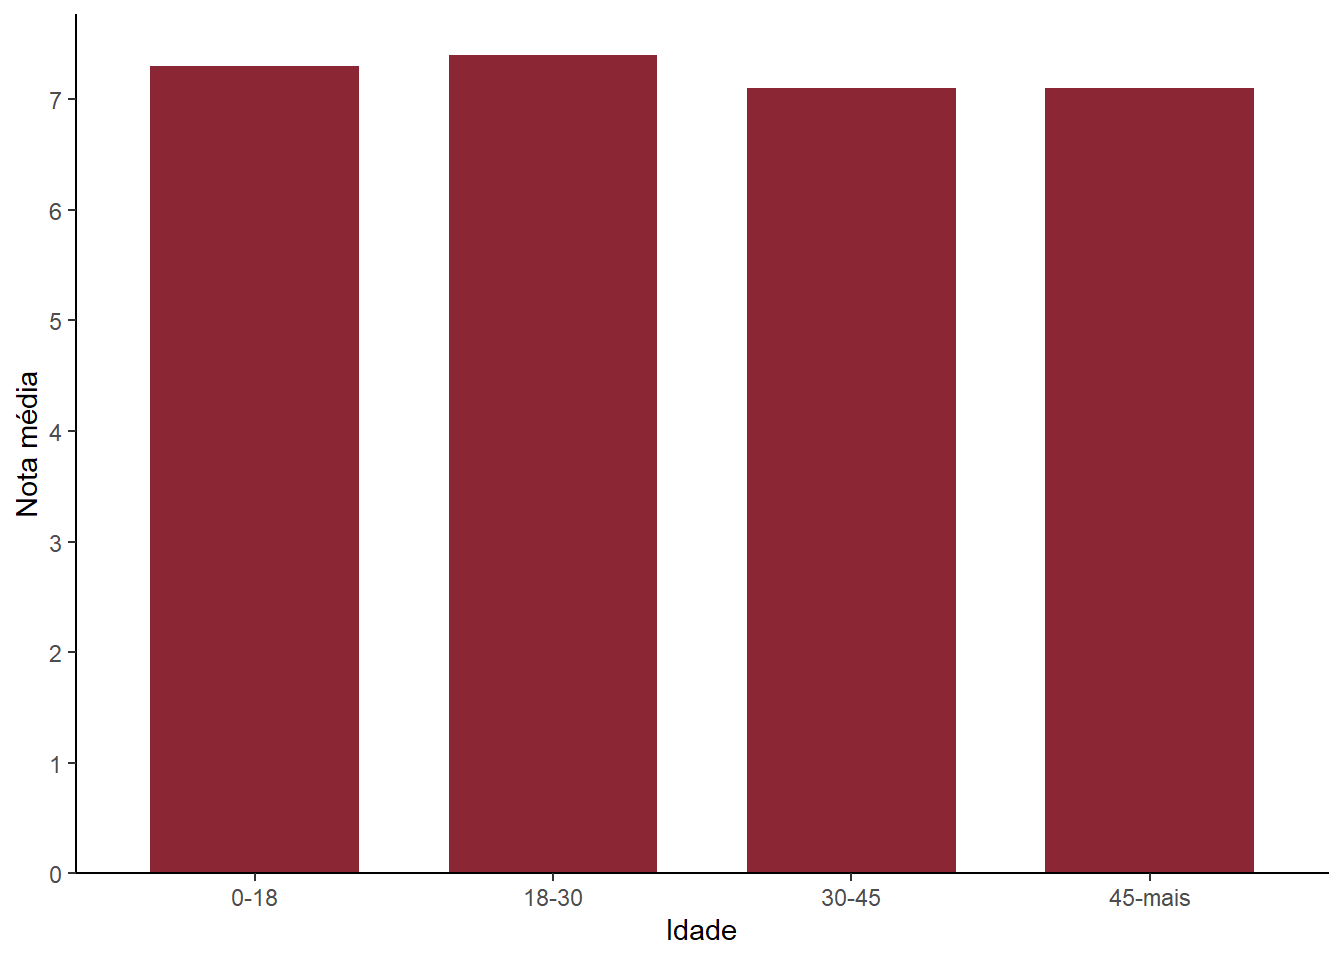
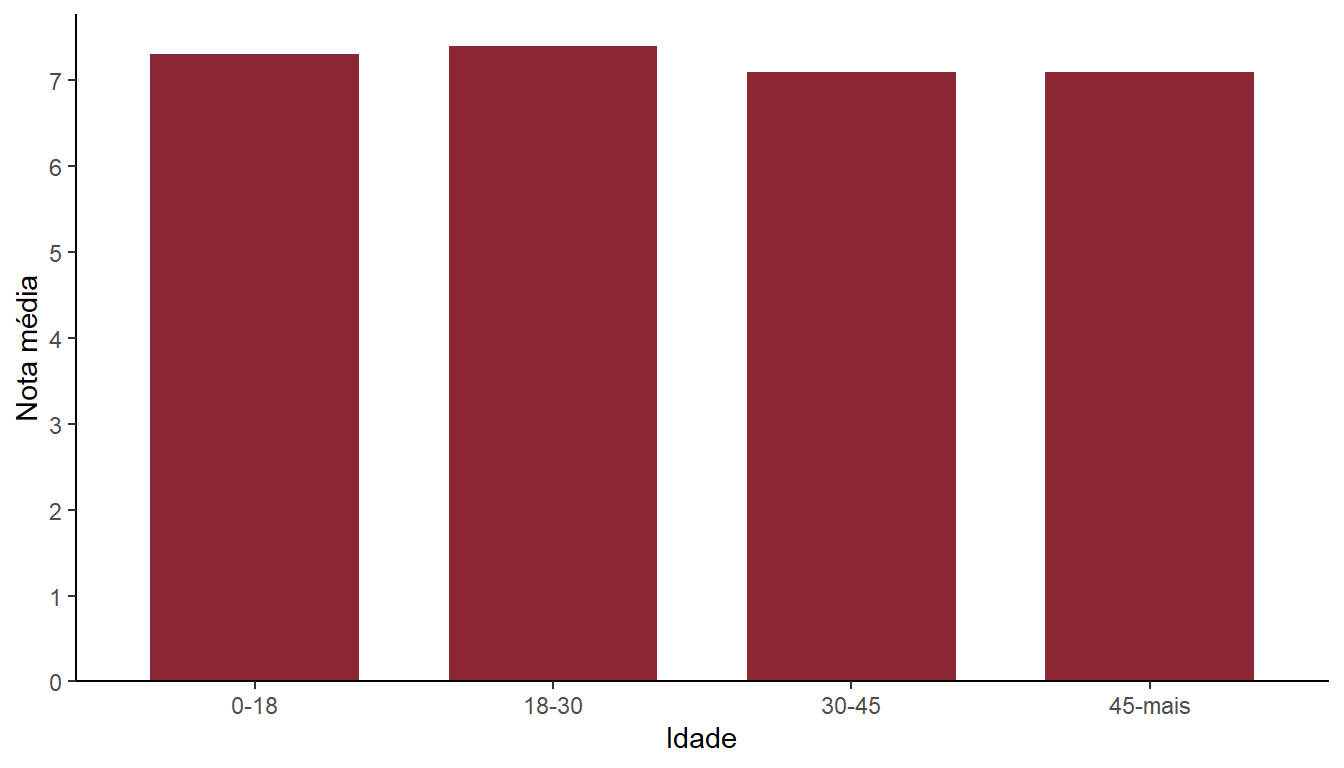
relatorio completo

diff --git a/docs/index.html b/docs/index.html
@@ -283,8 +283,8 @@ pre > code.sourceCode > span > a:first-child::before { text-decoration: underlin
 <span id="cb4-14"><a href="#cb4-14" aria-hidden="true" tabindex="-1"></a>  DT<span class="sc">::</span><span class="fu">datatable</span>()</span></code><button title="Copiar para a área de transferência" class="code-copy-button"><i class="bi"></i></button></pre></div>
 <div class="cell-output-display">
 
-<div class="datatables html-widget html-fill-item-overflow-hidden html-fill-item" id="htmlwidget-0d52b20e0e83fbe46014" style="width:100%;height:auto;"></div>
-<script type="application/json" data-for="htmlwidget-0d52b20e0e83fbe46014">{"x":{"filter":"none","vertical":false,"data":[["1","2","3","4","5","6","7","8","9","10","11","12","13","14","15","16","17","18","19","20","21","22","23","24","25","26","27","28","29","30","31","32","33","34","35","36","37","38","39","40","41","42","43","44","45","46","47","48","49","50","51","52","53","54","55","56","57","58","59","60","61","62","63","64","65","66","67","68","69","70","71","72","73","74","75","76","77","78","79"],["$","ITL","ROL","SEK","FRF","NOK","GBP","DEM","PTE","FIM","CAD","INR","CHF","ESP","JPY","DKK","NLG","PLN","RUR","AUD","KRW","BEF","XAU","HKD","NZD","CNY","EUR","PYG","ISK","IEP","TRL","HRK","SIT","PHP","HUF","DOP","JMD","CZK","SGD","BRL","BDT","ATS","BND","EGP","THB","GRD","ZAR","NPR","IDR","PKR","MXN","BGL","EEK","YUM","MYR","IRR","CLP","SKK","LTL","TWD","MTL","LVL","COP","ARS","UAH","RON","ALL","NGN","ILS","VEB","VND","TTD","JOD","LKR","GEL","MNT","AZM","AMD","AED"]],"container":"<table class=\"display\">\n  <thead>\n    <tr>\n      <th> <\/th>\n      <th>Moeda<\/th>\n    <\/tr>\n  <\/thead>\n<\/table>","options":{"columnDefs":[{"orderable":false,"targets":0}],"order":[],"autoWidth":false,"orderClasses":false}},"evals":[],"jsHooks":[]}</script>
+<div class="datatables html-widget html-fill-item-overflow-hidden html-fill-item" id="htmlwidget-a7446fdab626ff99d87d" style="width:100%;height:auto;"></div>
+<script type="application/json" data-for="htmlwidget-a7446fdab626ff99d87d">{"x":{"filter":"none","vertical":false,"data":[["1","2","3","4","5","6","7","8","9","10","11","12","13","14","15","16","17","18","19","20","21","22","23","24","25","26","27","28","29","30","31","32","33","34","35","36","37","38","39","40","41","42","43","44","45","46","47","48","49","50","51","52","53","54","55","56","57","58","59","60","61","62","63","64","65","66","67","68","69","70","71","72","73","74","75","76","77","78","79"],["$","ITL","ROL","SEK","FRF","NOK","GBP","DEM","PTE","FIM","CAD","INR","CHF","ESP","JPY","DKK","NLG","PLN","RUR","AUD","KRW","BEF","XAU","HKD","NZD","CNY","EUR","PYG","ISK","IEP","TRL","HRK","SIT","PHP","HUF","DOP","JMD","CZK","SGD","BRL","BDT","ATS","BND","EGP","THB","GRD","ZAR","NPR","IDR","PKR","MXN","BGL","EEK","YUM","MYR","IRR","CLP","SKK","LTL","TWD","MTL","LVL","COP","ARS","UAH","RON","ALL","NGN","ILS","VEB","VND","TTD","JOD","LKR","GEL","MNT","AZM","AMD","AED"]],"container":"<table class=\"display\">\n  <thead>\n    <tr>\n      <th> <\/th>\n      <th>Moeda<\/th>\n    <\/tr>\n  <\/thead>\n<\/table>","options":{"columnDefs":[{"orderable":false,"targets":0}],"order":[],"autoWidth":false,"orderClasses":false}},"evals":[],"jsHooks":[]}</script>
 </div>
 </div>
 </section>
@@ -571,7 +571,7 @@ pre > code.sourceCode > span > a:first-child::before { text-decoration: underlin
 <li>Faça um gráfico representando a distribuição da nota atribuída a esse filme por idade (base `imdb_avaliacoes`).</li>
 </ol>
 <p>A seguir é apresentado o gráfico com a média das nota atribuídas por cada categorias etária ao filme Jogos Vorazes.</p>
-<div class="cell">
+<div class="cell" data-layout-align="center">
 <div class="sourceCode cell-code" id="cb9"><pre class="sourceCode r code-with-copy"><code class="sourceCode r"><span id="cb9-1"><a href="#cb9-1" aria-hidden="true" tabindex="-1"></a>id <span class="ot">&lt;-</span> imdb <span class="sc">|&gt;</span> <span class="fu">filter</span>(titulo <span class="sc">==</span> <span class="st">"Hunger Games"</span>) <span class="sc">|&gt;</span> <span class="fu">pull</span>(id_filme)</span>
 <span id="cb9-2"><a href="#cb9-2" aria-hidden="true" tabindex="-1"></a></span>
 <span id="cb9-3"><a href="#cb9-3" aria-hidden="true" tabindex="-1"></a>imdb_avaliacoes <span class="sc">|&gt;</span> </span>
@@ -589,7 +589,11 @@ pre > code.sourceCode > span > a:first-child::before { text-decoration: underlin
 <span id="cb9-15"><a href="#cb9-15" aria-hidden="true" tabindex="-1"></a>       <span class="at">y =</span> <span class="st">"Nota média"</span>) <span class="sc">+</span></span>
 <span id="cb9-16"><a href="#cb9-16" aria-hidden="true" tabindex="-1"></a>  <span class="fu">theme_classic</span>()</span></code><button title="Copiar para a área de transferência" class="code-copy-button"><i class="bi"></i></button></pre></div>
 <div class="cell-output-display">
-<p><img src="index_files/figure-html/unnamed-chunk-14-1.png" class="img-fluid" width="672"></p>
+<div class="quarto-figure quarto-figure-center">
+<figure class="figure">
+<p><img src="index_files/figure-html/unnamed-chunk-14-1.png" class="img-fluid figure-img" width="672"></p>
+</figure>
+</div>
 </div>
 </div>
 <!-- -->
@@ -1280,25 +1284,29 @@ window.document.addEventListener("DOMContentLoaded", function (event) {
 <span id="cb10-421"><a href="#cb10-421" aria-hidden="true" tabindex="-1"></a>A seguir é apresentado o gráfico com a média das nota atribuídas por cada categorias etária ao filme Jogos Vorazes.</span>
 <span id="cb10-422"><a href="#cb10-422" aria-hidden="true" tabindex="-1"></a></span>
 <span id="cb10-425"><a href="#cb10-425" aria-hidden="true" tabindex="-1"></a><span class="in">```{r}</span></span>
-<span id="cb10-426"><a href="#cb10-426" aria-hidden="true" tabindex="-1"></a>id <span class="ot">&lt;-</span> imdb <span class="sc">|&gt;</span> <span class="fu">filter</span>(titulo <span class="sc">==</span> <span class="st">"Hunger Games"</span>) <span class="sc">|&gt;</span> <span class="fu">pull</span>(id_filme)</span>
-<span id="cb10-427"><a href="#cb10-427" aria-hidden="true" tabindex="-1"></a></span>
-<span id="cb10-428"><a href="#cb10-428" aria-hidden="true" tabindex="-1"></a>imdb_avaliacoes <span class="sc">|&gt;</span> </span>
-<span id="cb10-429"><a href="#cb10-429" aria-hidden="true" tabindex="-1"></a>  <span class="fu">filter</span>(id_filme <span class="sc">==</span> id) <span class="sc">|&gt;</span> </span>
-<span id="cb10-430"><a href="#cb10-430" aria-hidden="true" tabindex="-1"></a>  <span class="fu">select</span>(<span class="fu">contains</span>(<span class="st">"nota_media_idade"</span>)) <span class="sc">|&gt;</span> </span>
-<span id="cb10-431"><a href="#cb10-431" aria-hidden="true" tabindex="-1"></a>  <span class="fu">pivot_longer</span>(<span class="fu">everything</span>(), <span class="at">names_to =</span> <span class="st">"idade"</span>, <span class="at">values_to =</span> <span class="st">"nota"</span>) <span class="sc">|&gt;</span> </span>
-<span id="cb10-432"><a href="#cb10-432" aria-hidden="true" tabindex="-1"></a>  <span class="fu">mutate</span>(<span class="at">idade =</span> <span class="fu">str_remove</span>(idade, <span class="st">"nota_media_idade_"</span>) <span class="sc">|&gt;</span> <span class="fu">str_replace</span>(<span class="st">"_"</span>, <span class="st">"-"</span>)) <span class="sc">|&gt;</span> </span>
-<span id="cb10-433"><a href="#cb10-433" aria-hidden="true" tabindex="-1"></a>  <span class="fu">ggplot</span>() <span class="sc">+</span></span>
-<span id="cb10-434"><a href="#cb10-434" aria-hidden="true" tabindex="-1"></a>  <span class="fu">geom_col</span>(<span class="fu">aes</span>(<span class="at">x =</span> idade, <span class="at">y =</span> nota), <span class="at">fill =</span> <span class="st">"#8B2635"</span>,</span>
-<span id="cb10-435"><a href="#cb10-435" aria-hidden="true" tabindex="-1"></a>           <span class="at">width =</span> <span class="fl">0.7</span>) <span class="sc">+</span></span>
-<span id="cb10-436"><a href="#cb10-436" aria-hidden="true" tabindex="-1"></a>  <span class="fu">scale_y_continuous</span>(<span class="at">expand =</span> <span class="fu">expansion</span>(<span class="at">mult =</span> <span class="fu">c</span>(<span class="dv">0</span>, <span class="fl">0.05</span>)),</span>
-<span id="cb10-437"><a href="#cb10-437" aria-hidden="true" tabindex="-1"></a>                     <span class="at">n.breaks =</span> <span class="dv">8</span></span>
-<span id="cb10-438"><a href="#cb10-438" aria-hidden="true" tabindex="-1"></a>                     ) <span class="sc">+</span></span>
-<span id="cb10-439"><a href="#cb10-439" aria-hidden="true" tabindex="-1"></a>  <span class="fu">labs</span>(<span class="at">x =</span> <span class="st">"Idade"</span>,</span>
-<span id="cb10-440"><a href="#cb10-440" aria-hidden="true" tabindex="-1"></a>       <span class="at">y =</span> <span class="st">"Nota média"</span>) <span class="sc">+</span></span>
-<span id="cb10-441"><a href="#cb10-441" aria-hidden="true" tabindex="-1"></a>  <span class="fu">theme_classic</span>()</span>
-<span id="cb10-442"><a href="#cb10-442" aria-hidden="true" tabindex="-1"></a></span>
-<span id="cb10-443"><a href="#cb10-443" aria-hidden="true" tabindex="-1"></a></span>
-<span id="cb10-444"><a href="#cb10-444" aria-hidden="true" tabindex="-1"></a><span class="in">```</span></span>
+<span id="cb10-426"><a href="#cb10-426" aria-hidden="true" tabindex="-1"></a><span class="co">#| fig-width: 7</span></span>
+<span id="cb10-427"><a href="#cb10-427" aria-hidden="true" tabindex="-1"></a><span class="co">#| fig-height: 4</span></span>
+<span id="cb10-428"><a href="#cb10-428" aria-hidden="true" tabindex="-1"></a><span class="co">#| fig-align: "center"</span></span>
+<span id="cb10-429"><a href="#cb10-429" aria-hidden="true" tabindex="-1"></a></span>
+<span id="cb10-430"><a href="#cb10-430" aria-hidden="true" tabindex="-1"></a>id <span class="ot">&lt;-</span> imdb <span class="sc">|&gt;</span> <span class="fu">filter</span>(titulo <span class="sc">==</span> <span class="st">"Hunger Games"</span>) <span class="sc">|&gt;</span> <span class="fu">pull</span>(id_filme)</span>
+<span id="cb10-431"><a href="#cb10-431" aria-hidden="true" tabindex="-1"></a></span>
+<span id="cb10-432"><a href="#cb10-432" aria-hidden="true" tabindex="-1"></a>imdb_avaliacoes <span class="sc">|&gt;</span> </span>
+<span id="cb10-433"><a href="#cb10-433" aria-hidden="true" tabindex="-1"></a>  <span class="fu">filter</span>(id_filme <span class="sc">==</span> id) <span class="sc">|&gt;</span> </span>
+<span id="cb10-434"><a href="#cb10-434" aria-hidden="true" tabindex="-1"></a>  <span class="fu">select</span>(<span class="fu">contains</span>(<span class="st">"nota_media_idade"</span>)) <span class="sc">|&gt;</span> </span>
+<span id="cb10-435"><a href="#cb10-435" aria-hidden="true" tabindex="-1"></a>  <span class="fu">pivot_longer</span>(<span class="fu">everything</span>(), <span class="at">names_to =</span> <span class="st">"idade"</span>, <span class="at">values_to =</span> <span class="st">"nota"</span>) <span class="sc">|&gt;</span> </span>
+<span id="cb10-436"><a href="#cb10-436" aria-hidden="true" tabindex="-1"></a>  <span class="fu">mutate</span>(<span class="at">idade =</span> <span class="fu">str_remove</span>(idade, <span class="st">"nota_media_idade_"</span>) <span class="sc">|&gt;</span> <span class="fu">str_replace</span>(<span class="st">"_"</span>, <span class="st">"-"</span>)) <span class="sc">|&gt;</span> </span>
+<span id="cb10-437"><a href="#cb10-437" aria-hidden="true" tabindex="-1"></a>  <span class="fu">ggplot</span>() <span class="sc">+</span></span>
+<span id="cb10-438"><a href="#cb10-438" aria-hidden="true" tabindex="-1"></a>  <span class="fu">geom_col</span>(<span class="fu">aes</span>(<span class="at">x =</span> idade, <span class="at">y =</span> nota), <span class="at">fill =</span> <span class="st">"#8B2635"</span>,</span>
+<span id="cb10-439"><a href="#cb10-439" aria-hidden="true" tabindex="-1"></a>           <span class="at">width =</span> <span class="fl">0.7</span>) <span class="sc">+</span></span>
+<span id="cb10-440"><a href="#cb10-440" aria-hidden="true" tabindex="-1"></a>  <span class="fu">scale_y_continuous</span>(<span class="at">expand =</span> <span class="fu">expansion</span>(<span class="at">mult =</span> <span class="fu">c</span>(<span class="dv">0</span>, <span class="fl">0.05</span>)),</span>
+<span id="cb10-441"><a href="#cb10-441" aria-hidden="true" tabindex="-1"></a>                     <span class="at">n.breaks =</span> <span class="dv">8</span></span>
+<span id="cb10-442"><a href="#cb10-442" aria-hidden="true" tabindex="-1"></a>                     ) <span class="sc">+</span></span>
+<span id="cb10-443"><a href="#cb10-443" aria-hidden="true" tabindex="-1"></a>  <span class="fu">labs</span>(<span class="at">x =</span> <span class="st">"Idade"</span>,</span>
+<span id="cb10-444"><a href="#cb10-444" aria-hidden="true" tabindex="-1"></a>       <span class="at">y =</span> <span class="st">"Nota média"</span>) <span class="sc">+</span></span>
+<span id="cb10-445"><a href="#cb10-445" aria-hidden="true" tabindex="-1"></a>  <span class="fu">theme_classic</span>()</span>
+<span id="cb10-446"><a href="#cb10-446" aria-hidden="true" tabindex="-1"></a></span>
+<span id="cb10-447"><a href="#cb10-447" aria-hidden="true" tabindex="-1"></a></span>
+<span id="cb10-448"><a href="#cb10-448" aria-hidden="true" tabindex="-1"></a><span class="in">```</span></span>
 </code><button title="Copiar para a área de transferência" class="code-copy-button"><i class="bi"></i></button></pre></div>
 </div></div></div></div></div>
 </div> <!-- /content -->
